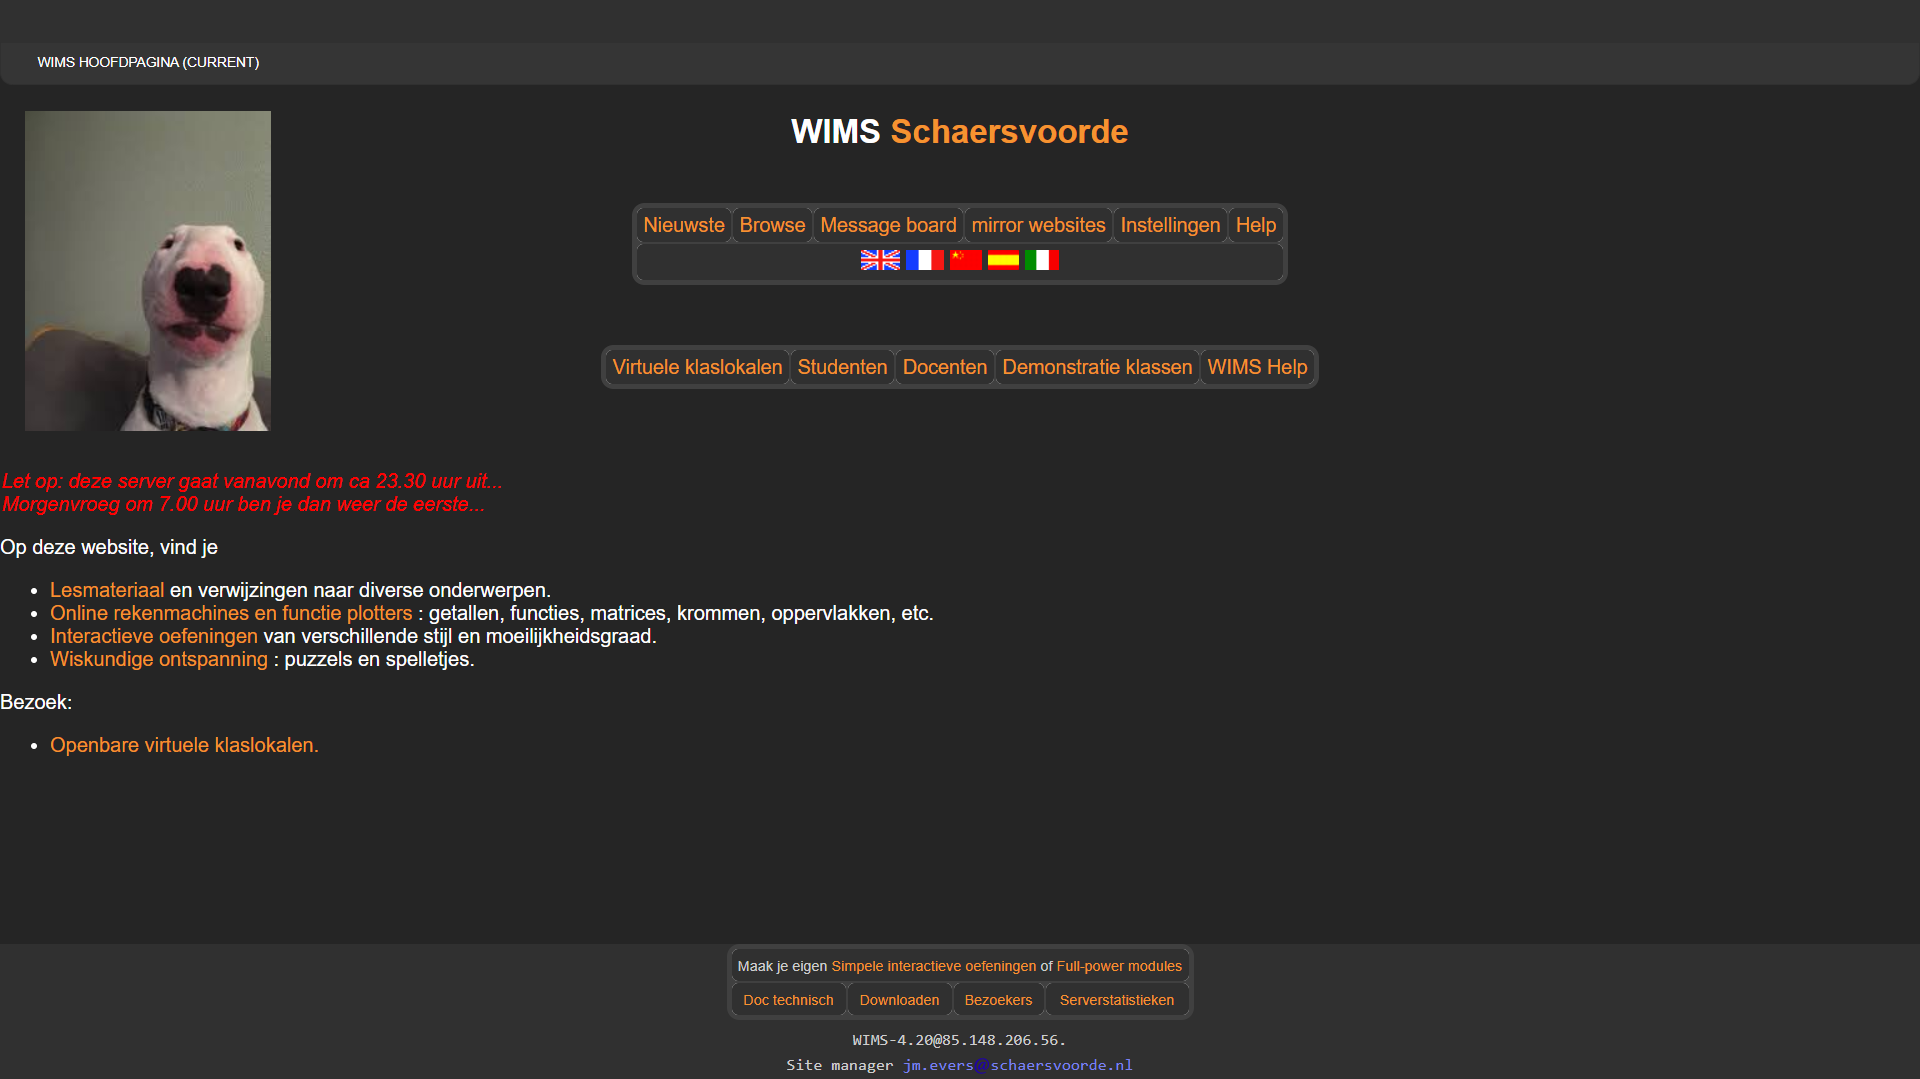
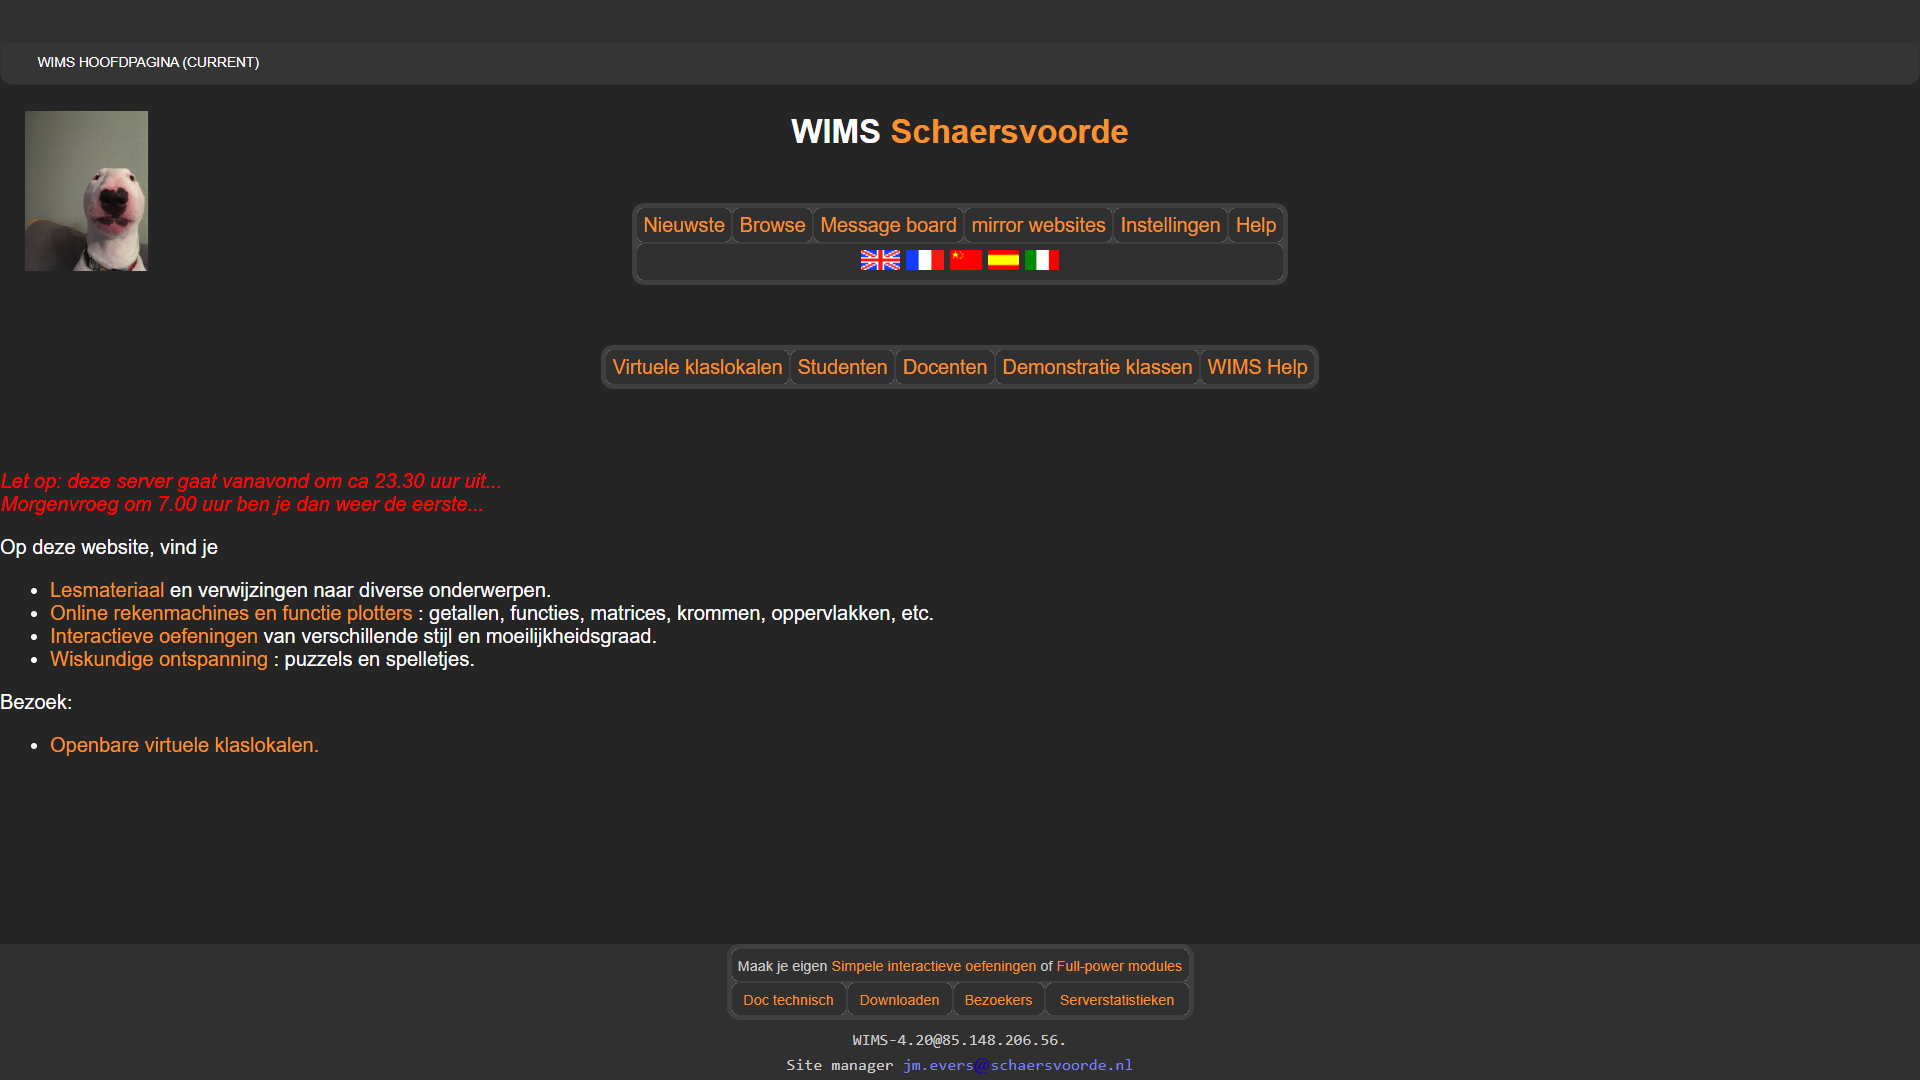
Update

diff --git a/WIMS Dark Theme/content/darkmode.css b/WIMS Dark Theme/content/darkmode.css
@@ -1,4 +1,3 @@
-@-moz-document domain("85.148.206.56"), domain("wims-schaersvoorde.nl") {
 :root {
     --wims_bgcolor: #252525;
     --wims_link_color: #F69330;
@@ -13,20 +12,25 @@
 body {
     margin: unset;
     padding: unset;
-    padding: 0px 0px 120px 0px;
+    padding: 0px 0px 0px 0px;
+
 }
 html:not(:hover), body {
     background-color: #252525;
 }
 
 html {
-padding: 0px 0px 80px 0px;
+    padding: 0px 0px 0px 0px;
+    margin: unset;
+    font-size: 100%;
 }
 
 div.wimsbody:last-child {
-    padding: 0px 0px 0px 0px;
+    padding: 0px 0px 40px 0px;
 }
-
+div.wimsbody {
+    padding: unset;
+}
 a {
     color: #F69330;
 }
@@ -46,13 +50,17 @@ a:hover, a:focus, a:visited {
 #wimstopbox span {
     margin: 5px
 }
-#wimsmenumodubox {
+body.main_body #wimsbodybox #wimspagebox div.wimsbody nav#wimsmenumodubox {
     border-radius: 10px 10px 0px 0px;
-    position: fixed;
+    position: relative;
     width: 100%;
-    bottom: 20px;
-    padding: 0px 0px 50px 0px;
+    bottom: 0px;
+    padding: 0px 0px 0px 0px;
     background-color: #303030;
+}
+
+nav#wimsmenumodubox div.menuitem.score {
+    display: none;
 }
 
 fieldset#searchform.wims_search_engine {
@@ -64,8 +72,11 @@ div.wimsmenu.menu {
     background-color: #0000 !important;
 }
 h2.menu_title {
-    padding: 0px 0px 0px 15px;
-    margin-block-start: 0.60em;
+    padding: 0px 0px 0px 10px;
+    margin-block-start: 0.35em;
+    margin-block-end: 0.0em;
+}
+h1.wims_title {
     margin-block-end: 0.0em;
 }
 
@@ -90,12 +101,18 @@ div.wims_content p {
 #wimspagebox div form div, legend, fieldset.property_fields.halfwidth.blockcenter  {
     border-radius: 5px;
     padding: 10px;
-    
+}
+
+div#wimspagebox {
+    padding: 0px 0px 0px 0px;
 }
 
 #wimspagebox div form div fieldset.property_fields.halfwidth.blockcenter, fieldset.property_fields.halfwidth.blockcenter {
     background-color: #353535;
-    margin-bottom: 70px;
+}
+
+#wimspagebox div.wimsbody fieldset.property_fields.halfwidth.blockcenter {
+    margin-bottom: 50px
 }
 
 .fullwidth input[type="text"], .fullwidth textarea, .fullwidth select {
@@ -112,7 +129,7 @@ div.wims_content p {
     color: #cecece
 }
 .wimstail {
-    position: fixed;
+    position: relative;
     bottom: 0;
     width: 100%;
 }
@@ -123,10 +140,11 @@ div.wims_content p {
     margin-bottom: 48px
 }
 table.wimscenter.wimstail {
-    position: fixed;
+    position: relative;
     bottom: 0;
-    width: 99.9%;
-    padding: 0px 0px 2px 0px
+    width: 100%;
+    /*padding: 0px 0px 2px 0px; */
+    border-radius: 0px 0px 10px 10px
 }
 
 table#TABLE_portal.wimstable.wimscenter {
@@ -137,6 +155,7 @@ table#TABLE_portal.wimstable.wimscenter {
 .wimstable.wimscenter {
     border-radius: 10px;
     background-color: #404040 !important
+        
 }
 table.wimstable {
     border: unset;
@@ -151,7 +170,6 @@ hr {
     width: 99% !important;
     background-color: #303030 !important;
     display: none !important
-    /* display: none */
 }
 .breadcrumbs {
     background-color: #353535;
@@ -182,12 +200,11 @@ div#visitor_home.wimsmenu {
 div#visitor_home.wimsmenu div.float_left {
     position: absolute;
     display: block;
-    -moz-box-sizing: border-box;
-    box-sizing: border-box;
[1 lines of base64/hex data omitted]
     width: 197px; /* Width of new image */
     height: 256px; /* Height of new image */
-    margin: 20px
+    background-size: 50%;
+    margin: 20px;
 }
 div#visitor_home.wimsmenu div.float_left img {
     display: none
@@ -234,7 +251,7 @@ table.wims_table tbody tr td {
     position: fixed;
     bottom: 0;
     padding: 0px 0px 25px 0px;
-    
+    /* display: none */
 }
 .wimsbody p small {
     position: fixed;
@@ -250,6 +267,15 @@ table.wims_user_exam_table {
     background-color: #353535;
     margin-left: auto;
     margin-right: auto;
+}
+
+div.wims_user_info {
+    top: 0.5em;
+}
+
+.wims_exo_item {
+    background-color: #353535;
+    background-image: unset
 }
 
 table.wims_user_sheet_table {
@@ -313,6 +339,14 @@ div.wimsbody table thead tr th {
     border-radius: 5px
 }
 
+#wimspagebox div div div.wims_score_bar {
+    display: none;
+}
+
+div.wimsbody form div.wims_form div {
+    background-color: unset !important;
+}
+
 /* In opgave */
 div.menuitem.score {
     background-color: #0000;
@@ -334,6 +368,9 @@ td.exercise_c, div table tbody tr td table tbody tr td {
     border-radius: 10px;
     padding: 0px 15px 0px 15px;
     color: #FFF
+}
+td.exercise_m {
+    background-color: unset;
 }
 
 .zebra_table_h2 tbody tr:nth-of-type(odd) {
@@ -364,6 +401,14 @@ tbody tr td.exercise_m textarea, div #schaersvoorde_exercise #send_buttons input
     border-radius: 10px;
     padding: 5px 10px 5px 5px
 }
+div#send_buttons.embedded_central {
+    padding: 10px;
+    margin-bottom: 130px;
+}
+div.wimsbody div#schaersvoorde_exercise p {
+    padding: 0px 0px 10px 0px !important;
+}
+
 tbody tr td input#time {
     border-radius: 10px;
     padding: 3px 0px 3px 3px
@@ -376,6 +421,110 @@ tbody tr td input#time {
 
 #wimsmenumodubox .menuitem.score {
     margin-bottom: 30px
+}
+
+div#alarmtext {
+    padding: 5px;
+    color: #FFF !important;
+    background-color: #404040 !important;
+    border-radius: 10px;
+}
+input#schaersvoorde_confirm_ok_button, input#schaersvoorde_confirm_nok_button {
+    padding: 5px;
+    border-radius: 10px;
+    margin-top: 5px
+}
+
+#alarmtext span tt li {
+    background-color: #303030;
+    border-radius: 10px;
+    padding: 5px;
+}
+
+div.wimsbody div table {
+    background: #0000 !important;
+}
+tbody tr td font {
+    color: #FFF !important;
+    padding: 5px
+}
+
+div .wims_msg.warning {
+    background-color: #303030;
+    border-radius: 10px
+}
+
+div.wims_class_motd a font {
+    color: #3285ff
+}
+
+#answer tbody tr td div div {
+    color: #47e045;
+}
+
+#answer tbody tr td.answer_t {
+    border: unset;
+    border-style: solid;
+    border-color: lightgreen;
+    border-radius: 10px;
+    background-color: #353535;
+    font-size: 90%
+}
+
+span span span.katex-html {
+    background-color: #404040 !important;
+    padding: 20px 20px 20px 20px;
+    border-radius: 7px
+}
+
+#exercise tbody tr td span div {
+    z-index: 50;
+}
+
+span.katex-display {
+    border-radius: 10px
+}
+
+body.user_error {
+    color: #FFF;
+}
+
+body.user_error p.actions input {
+    color: #FFF;
+}
+
+#schaersvoorde_exercise #answer tbody tr td hr {
+    display: block !important;
+}
+#schaersvoorde_exercise #answer tbody tr td span {
+    color: #47e045;
+}
+
+div.wimsbody div#schaersvoorde_exercise p {
+    padding: 0px 0px 70px 0px;
+    /* margin-top: -5em; */
+    margin-bottom: 0em
+}
+
+div.wimsbody div#schaersvoorde_exercise #exercise p  {
+    padding: 0px 0px 70px 0px;
+    margin-top: 0em !important;
+    margin-bottom: 0em !important
+}
+
+#schaersvoorde_exercise #exercise tbody tr td table tbody tr td:empty {
+    display: none
+}
+
+table#exercise.exercise {
+    background-color: #404040 !important;
+}
+
+#answer tbody tr td.answer_t img {
+    filter: invert(100%);
+}
+#answer tbody tr td.answer_t:last-child img {
+    filter: unset;
 }
 
 /* examen */
@@ -399,6 +548,12 @@ div#exam_status.exam_instructions.wims_msg.info {
 
 /* cijfers */
 div#wimspagebox div.wimstrap:last-child {
-    padding: 0px 0px 50px 0px;
+    padding: 0px 0px 0px 0px;
+    margin-left: auto;
+    margin-right: auto;
 }
+
+#schaersvoorde_exercise textarea#stickit_area {
+    margin-left: auto !important;
+    margin-right: auto !important;
 }

diff --git a/WIMS Dark Theme/content/background.js b/WIMS Dark Theme/content/background.js
@@ -1,0 +1,14 @@
+window.onload = function(){
+    if (typeof (document.getElementsByTagName("frame")[1]) != "undefined") {
+        if(document.baseURI == document.getElementsByTagName("frame")[1].baseURI) { 	
+            window.location.replace(document.getElementsByTagName("frame")[1].src);
+        }
+    }
+}
+
+var element = document.createElement ('link');
+element.setAttribute("rel", "stylesheet");
+element.setAttribute("type", "text/css");
+element.setAttribute("href", "https://haverkae.home.xs4all.nl/Files/Content/darkmode-force.css")
+element.async = false;
+document.documentElement.appendChild(element);
